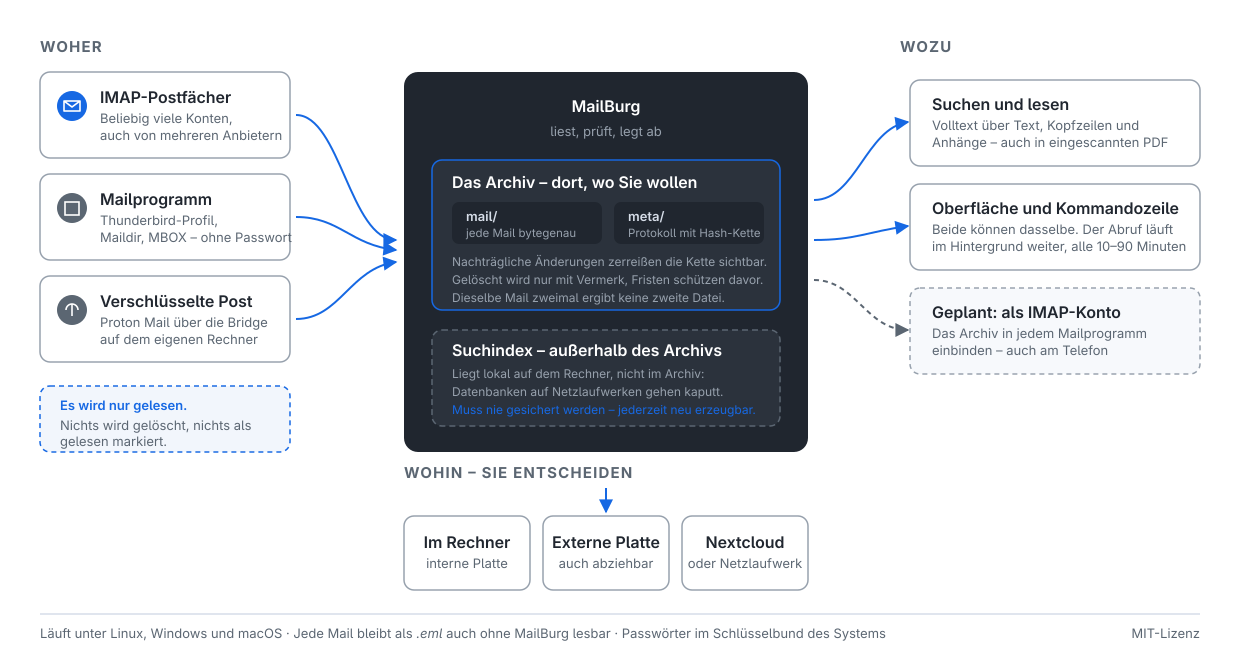
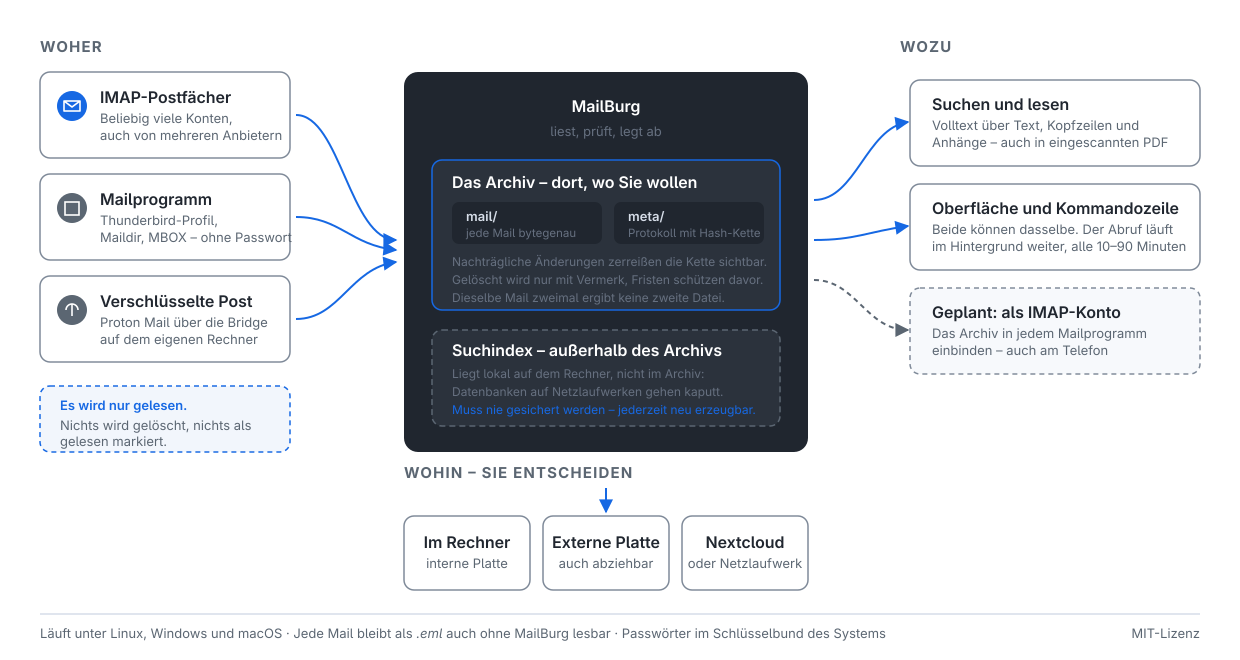
Die Beschriftungen der Übersichtsgrafik waren zu blass zum Lesen
Neun Textstellen in assets/uebersicht.svg standen bei 11,5 bis 13
Pixeln in #97a1ad auf weißem Grund. Das sind 2,6 Kontrast; WCAG
verlangt für Text dieser Größe 4,5. Die Kastenrahmen lagen mit
demselben Wert unter den 3,0 für grafische Elemente.

Text steht jetzt in #667080 (5,0), Rahmen in #7f8a99 (3,5).

Aufgefallen ist es nicht beim Hinsehen. Solche Werte sieht man einem
Farbton nicht an - sie kamen ans Licht, als diese Palette in ein
anderes Projekt übernommen und dort zum ersten Mal nachgerechnet
wurde. Ein Fehler, der ein Jahr lang in einer Erklärgrafik stand,
ohne dass ihn jemand bemerkte.

Damit das nicht wieder passiert, steht die Palette jetzt geschrieben:
assets/farben.md zum Nachlesen, mailburg/farben.py als Werte samt
Kontrastrechnung nach WCAG 2.1, tests/test_farben.py als Prüfung der
Paarungen, die tatsächlich vorkommen. Neu darin ist GRAU_LEISE
(#667080) für zurückgenommenen Text auf hellem Grund; GRAU_MITTE
(#97a1ad) taugt nur auf dunklem.

Diese Palette gilt seit dem 2026-08-28 für alle Programme. Die drei
Dateien sind zum Kopieren gedacht.

diff --git a/tests/test_farben.py b/tests/test_farben.py
@@ -1,0 +1,128 @@
+"""Die Farbpalette – Form der Werte, Kontraste, Vollständigkeit."""
+
+from __future__ import annotations
+
+import re
+import unittest
+
+from mailburg import farben
+
+
+def _palette() -> dict[str, str]:
+    """Alle Farbkonstanten des Moduls."""
+    return {
+        name: wert
+        for name, wert in vars(farben).items()
+        if name.isupper() and isinstance(wert, str) and wert.startswith("#")
+    }
+
+
+class Form(unittest.TestCase):
+    def test_alle_werte_sind_sechsstellige_hexwerte(self):
+        for name, wert in _palette().items():
+            with self.subTest(name=name):
+                self.assertRegex(wert, r"^#[0-9a-f]{6}$")
+
+    def test_keine_farbe_doppelt(self):
+        werte = list(_palette().values())
+        self.assertEqual(len(werte), len(set(werte)))
+
+    def test_palette_ist_nicht_leer(self):
+        self.assertGreaterEqual(len(_palette()), 15)
+
+    def test_rgb(self):
+        self.assertEqual(farben.rgb("#1668e3"), (22, 104, 227))
+        self.assertEqual(farben.rgb("#fff"), (255, 255, 255))
+
+    def test_rgb_lehnt_unsinn_ab(self):
+        for falsch in ("blau", "#12345", "#gggggg"):
+            with self.subTest(wert=falsch):
+                with self.assertRaises(ValueError):
+                    farben.rgb(falsch)
+
+
+class Kontraste(unittest.TestCase):
+    """WCAG 2.1 verlangt 4.5 für Fließtext und 3.0 für große Schrift.
+
+    Diese Zahlen sieht man einem Farbwert nicht an - man rechnet sie nach.
+    Genau deshalb steht die Prüfung hier und nicht in einer Anleitung: Der
+    Fehler bei GRAU_MITTE stand jahrelang unbemerkt in dieser Palette.
+    """
+
+    def test_weiss_auf_blau(self):
+        # Das Icon: weiße Zeichnung auf blauem Grund.
+        self.assertGreater(farben.kontrast(farben.WEISS, farben.BLAU), 4.5)
+        self.assertGreater(farben.kontrast(farben.WEISS, farben.BLAU_TIEF), 4.5)
+
+    def test_fliesstext_im_hellen_thema(self):
+        self.assertGreater(farben.kontrast(farben.GRAU, farben.GRAU_PAPIER), 4.5)
+        self.assertGreater(farben.kontrast(farben.GRAU_DUNKEL, farben.WEISS), 4.5)
+
+    def test_fliesstext_im_dunklen_thema(self):
+        self.assertGreater(farben.kontrast(farben.GRAU_HELL, farben.GRAU_NACHT), 4.5)
+        self.assertGreater(farben.kontrast(farben.GRAU_HELL, farben.GRAU_KOHLE), 4.5)
+
+    def test_verweise_sind_lesbar(self):
+        self.assertGreater(farben.kontrast(farben.BLAU, farben.GRAU_PAPIER), 4.5)
+        # Auf dunklem Grund braucht es das helle Blau; das dunkle wäre zu leise.
+        self.assertGreater(farben.kontrast(farben.BLAU_LEUCHT, farben.GRAU_NACHT), 4.5)
+
+    def test_signalfarben_sind_lesbar(self):
+        self.assertGreater(farben.kontrast(farben.ROT, farben.GRAU_PAPIER), 4.5)
+        self.assertGreater(farben.kontrast(farben.GRUEN, farben.GRAU_PAPIER), 4.5)
+        self.assertGreater(farben.kontrast(farben.ROT_HELL, farben.GRAU_NACHT), 4.5)
+        self.assertGreater(farben.kontrast(farben.GRUEN_HELL, farben.GRAU_NACHT), 4.5)
+
+    def test_zweitangaben_sind_lesbar(self):
+        # Zurückgenommener Text braucht je Thema einen eigenen Ton. GRAU_MITTE
+        # auf hellem Grund erreicht nur 2,48 und verfehlt damit sogar die 3,0
+        # für große Schrift - deshalb gibt es GRAU_LEISE. Der Fehler stand in
+        # der übernommenen Palette und ist erst hier aufgefallen.
+        self.assertGreater(farben.kontrast(farben.GRAU_LEISE, farben.GRAU_PAPIER), 4.5)
+        self.assertGreater(farben.kontrast(farben.GRAU_MITTE, farben.GRAU_NACHT), 4.5)
+
+    def test_grau_mitte_taugt_nicht_fuer_hellen_grund(self):
+        # Hält den Grund fest, warum es zwei Töne gibt. Wer GRAU_MITTE hier
+        # einsetzt, macht Text unlesbar, ohne dass es auffällt.
+        self.assertLess(farben.kontrast(farben.GRAU_MITTE, farben.GRAU_PAPIER), 3.0)
+
+    def test_kontrast_ist_symmetrisch(self):
+        a = farben.kontrast(farben.WEISS, farben.BLAU)
+        b = farben.kontrast(farben.BLAU, farben.WEISS)
+        self.assertAlmostEqual(a, b, places=10)
+
+    def test_gleiche_farbe_hat_kontrast_eins(self):
+        self.assertAlmostEqual(farben.kontrast(farben.BLAU, farben.BLAU), 1.0)
+
+    def test_schwarz_auf_weiss_ist_das_hoechste(self):
+        self.assertAlmostEqual(farben.kontrast("#000000", "#ffffff"), 21.0, places=1)
+
+
+class AlsCss(unittest.TestCase):
+    def test_beide_themen_liefern_dieselben_namen(self):
+        namen = [
+            set(re.findall(r"(--[a-z-]+):", farben.als_css(dunkel)))
+            for dunkel in (False, True)
+        ]
+        self.assertEqual(namen[0], namen[1])
+
+    def test_hell_und_dunkel_unterscheiden_sich(self):
+        self.assertNotEqual(farben.als_css(False), farben.als_css(True))
+
+    def test_waehler_stimmt(self):
+        self.assertTrue(farben.als_css(False).startswith(":root {"))
+        self.assertIn('data-thema="dunkel"', farben.als_css(True))
+
+    def test_werte_stammen_aus_der_palette(self):
+        # Eine zweite, von Hand geschriebene Liste derselben Werte wiche früher
+        # oder später ab - und man fände es erst, wenn ein Knopf eine andere
+        # Farbe hat als der Rest.
+        erlaubt = set(_palette().values())
+        for dunkel in (False, True):
+            for wert in re.findall(r": (#[0-9a-f]{6});", farben.als_css(dunkel)):
+                with self.subTest(dunkel=dunkel, wert=wert):
+                    self.assertIn(wert, erlaubt)
+
+
+if __name__ == "__main__":
+    unittest.main()

diff --git a/mailburg/farben.py b/mailburg/farben.py
@@ -1,0 +1,121 @@
+"""Die gemeinsame Farbpalette, an einer Stelle.
+
+Sie ist hier entstanden und gilt seit 2026-08-28 für alle Programme. Erklärt
+sind die Farben in [assets/farben.md](../assets/farben.md); hier stehen nur die
+Werte, damit Oberfläche, Bilder und Ausgaben nicht jeweils eigene Zahlen führen.
+
+Warum eine eigene Datei und keine Konstanten im Oberflächencode: Weil die
+Palette in mehr als einem Programm gilt. Diese Datei ist zum Kopieren gedacht -
+sie hat keine Abhängigkeiten und lässt sich unverändert in ein anderes Projekt
+legen.
+"""
+
+from __future__ import annotations
+
+# -- Blau, die Leitfarbe ---------------------------------------------------
+
+BLAU_HELL = "#0e8af6"    # oberes Ende des Verlaufs im Icon
+BLAU = "#1668e3"         # Flächen, Knöpfe, Hervorhebungen
+BLAU_TIEF = "#0047a7"    # unteres Ende des Verlaufs im Icon
+BLAU_DUNKEL = "#0d3a8a"  # Ränder und Schatten auf blauem Grund
+BLAU_NACHT = "#0d2141"   # Hintergründe im dunklen Thema
+BLAU_LEUCHT = "#6cb6ff"  # Verweise auf dunklem Grund; auf hellem zu blass
+
+# -- Grau, alles andere ----------------------------------------------------
+
+GRAU_PAPIER = "#f7f9fc"  # Seitenhintergrund, helles Thema
+GRAU_HELL = "#d6dde8"    # Linien, Trenner, Rahmen
+GRAU_MITTE = "#97a1ad"   # zurückgenommener Text auf *dunklem* Grund
+# Für zurückgenommenen Text auf hellem Grund. GRAU_MITTE taugt dort nicht:
+# Auf GRAU_PAPIER erreicht es nur 2,48 Kontrast und verfehlt damit sogar die
+# 3,0 für große Schrift. Aufgefallen ist das nicht beim Hinsehen, sondern
+# durch den Test in tests/test_farben.py - solche Werte sieht man nicht, man
+# rechnet sie. Auf hellem Grund kommt dieser Ton auf 4,75 und ist damit auch
+# für Fließtext zulässig.
+GRAU_LEISE = "#667080"
+GRAU = "#5b6672"         # Fließtext auf hellem Grund
+GRAU_DUNKEL = "#3a4048"  # Überschriften
+GRAU_KOHLE = "#2b323c"   # Flächen im dunklen Thema
+GRAU_NACHT = "#20262f"   # Seitenhintergrund, dunkles Thema
+WEISS = "#ffffff"
+
+# -- Signalfarben ----------------------------------------------------------
+#
+# Sparsam verwenden. Sie sagen »hier ist etwas passiert«, und das verlieren
+# sie, sobald sie zur Dekoration werden.
+
+ROT = "#c62828"         # Fehler, Gescheitertes
+ROT_HELL = "#ef9a9a"    # dasselbe auf dunklem Grund
+GRUEN = "#2e7d32"       # Erledigtes, Gesendetes
+GRUEN_HELL = "#81c784"  # dasselbe auf dunklem Grund
+
+#: Der Verlauf des Icons, von oben nach unten.
+ICON_VERLAUF = (BLAU_HELL, BLAU_TIEF)
+
+
+def als_css(dunkel: bool = False) -> str:
+    """Die Palette als CSS-Variablen für die Weboberfläche.
+
+    Erzeugt statt gepflegt: Eine zweite, von Hand geschriebene Liste derselben
+    Werte wiche früher oder später ab, und man fände es erst, wenn ein Knopf
+    eine andere Farbe hat als der Rest.
+    """
+    gemeinsam = {
+        "--blau": BLAU,
+        "--blau-hell": BLAU_HELL,
+        "--blau-tief": BLAU_TIEF,
+        "--rot": ROT_HELL if dunkel else ROT,
+        "--gruen": GRUEN_HELL if dunkel else GRUEN,
+    }
+    if dunkel:
+        gemeinsam.update({
+            "--grund": GRAU_NACHT,
+            "--flaeche": GRAU_KOHLE,
+            "--linie": GRAU_DUNKEL,
+            "--text": GRAU_HELL,
+            "--text-leise": GRAU_MITTE,
+            "--verweis": BLAU_LEUCHT,
+        })
+    else:
+        gemeinsam.update({
+            "--grund": GRAU_PAPIER,
+            "--flaeche": WEISS,
+            "--linie": GRAU_HELL,
+            "--text": GRAU_DUNKEL,
+            "--text-leise": GRAU_LEISE,
+            "--verweis": BLAU,
+        })
+    zeilen = "\n".join(f"  {name}: {wert};" for name, wert in gemeinsam.items())
+    waehler = ':root[data-thema="dunkel"]' if dunkel else ":root"
+    return f"{waehler} {{\n{zeilen}\n}}"
+
+
+def rgb(farbe: str) -> tuple[int, int, int]:
+    """»#1668e3« zu (22, 104, 227) – für Bildbearbeitung und Kontrastrechnung."""
+    roh = farbe.lstrip("#")
+    if len(roh) == 3:
+        roh = "".join(z * 2 for z in roh)
+    if len(roh) != 6:
+        raise ValueError(f"Keine Farbe im Format #rrggbb: {farbe!r}")
+    return int(roh[0:2], 16), int(roh[2:4], 16), int(roh[4:6], 16)
+
+
+def _helligkeit(farbe: str) -> float:
+    """Relative Helligkeit nach WCAG 2.1."""
+    def kanal(wert: int) -> float:
+        anteil = wert / 255
+        return anteil / 12.92 if anteil <= 0.03928 else ((anteil + 0.055) / 1.055) ** 2.4
+
+    r, g, b = (kanal(k) for k in rgb(farbe))
+    return 0.2126 * r + 0.7152 * g + 0.0722 * b
+
+
+def kontrast(vorne: str, hinten: str) -> float:
+    """Kontrastverhältnis zweier Farben, 1 bis 21.
+
+    WCAG verlangt 4.5 für Fließtext und 3.0 für große Schrift. Bei einem
+    Werkzeug, das neben DialOS entsteht, sollte das nicht nur eine Zahl in
+    einer Norm sein – die Prüfung steht deshalb in den Tests.
+    """
+    hell, dunkel = sorted((_helligkeit(vorne), _helligkeit(hinten)), reverse=True)
+    return (hell + 0.05) / (dunkel + 0.05)

diff --git a/assets/farben.md b/assets/farben.md
@@ -1,0 +1,63 @@
+# Farben
+
+Die gemeinsame Palette für alle Programme. Sie ist hier entstanden und gilt
+seit 2026-08-28 als Vorgabe – Abweichungen nur, wenn ausdrücklich etwas
+anderes gesagt wird.
+
+Diese Datei ist zum Weiterreichen gedacht: Sie liegt in jedem Repository gleich
+und ist die Antwort auf »welches Blau war das noch?«. Die maschinenlesbaren
+Werte stehen in [`mailburg/farben.py`](../mailburg/farben.py), damit
+Oberfläche und Bilder nicht jeweils eigene Zahlen führen.
+
+## Blau – die Leitfarbe
+
+| Name | Wert | Wofür |
+|---|---|---|
+| `BLAU_HELL` | `#0e8af6` | oberes Ende des Verlaufs im Icon |
+| `BLAU` | `#1668e3` | die Leitfarbe. Flächen, Knöpfe, Hervorhebungen |
+| `BLAU_TIEF` | `#0047a7` | unteres Ende des Verlaufs im Icon |
+| `BLAU_DUNKEL` | `#0d3a8a` | Ränder und Schatten auf blauem Grund |
+| `BLAU_NACHT` | `#0d2141` | Hintergründe im dunklen Thema |
+| `BLAU_LEUCHT` | `#6cb6ff` | Verweise auf dunklem Grund. Auf hellem zu blass |
+
+Der Verlauf im Icon geht von `BLAU_HELL` oben nach `BLAU_TIEF` unten, senkrecht
+über die volle Höhe.
+
+## Grau – alles andere
+
+| Name | Wert | Wofür |
+|---|---|---|
+| `GRAU_PAPIER` | `#f7f9fc` | Seitenhintergrund im hellen Thema |
+| `GRAU_HELL` | `#d6dde8` | Linien, Trenner, Rahmen |
+| `GRAU_MITTE` | `#97a1ad` | zurückgenommener Text auf **dunklem** Grund |
+| `GRAU_LEISE` | `#667080` | dasselbe auf **hellem** Grund |
+| `GRAU` | `#5b6672` | Fließtext auf hellem Grund |
+| `GRAU_DUNKEL` | `#3a4048` | Überschriften |
+| `GRAU_KOHLE` | `#2b323c` | Flächen im dunklen Thema |
+| `GRAU_NACHT` | `#20262f` | Seitenhintergrund im dunklen Thema |
+| `WEISS` | `#ffffff` | Zeichnungen auf Blau, Flächen im hellen Thema |
+
+Zwei Töne für dieselbe Aufgabe, weil einer nicht reicht: `GRAU_MITTE` kommt auf
+hellem Grund nur auf 2,48 Kontrast und verfehlt damit sogar die 3,0, die WCAG
+für große Schrift verlangt. Das sieht man einem Farbwert nicht an – es fiel
+erst auf, als `tests/test_farben.py` es nachgerechnet hat.
+
+## Signalfarben
+
+Sparsam. Sie sagen »hier ist etwas passiert«, und das verliert seine Wirkung,
+wenn sie zur Dekoration werden.
+
+| Name | Wert | Wofür |
+|---|---|---|
+| `ROT` | `#c62828` | Fehler, Gescheitertes |
+| `ROT_HELL` | `#ef9a9a` | dasselbe auf dunklem Grund |
+| `GRUEN` | `#2e7d32` | Erledigtes, Gesendetes |
+| `GRUEN_HELL` | `#81c784` | dasselbe auf dunklem Grund |
+
+## Eine Anmerkung zur Herkunft
+
+Diese Palette ist aus MailBurgs Icon und Banner gewachsen und wurde am
+2026-08-28 zur Vorgabe für alle Programme erklärt. Dabei fiel auf, dass
+`#97a1ad` – hier lange als Textfarbe verwendet – auf hellem Grund nur 2,6
+Kontrast erreicht. Die betroffenen Stellen in `assets/uebersicht.svg` wurden
+korrigiert; siehe das Änderungsprotokoll.

diff --git a/CHANGELOG.md b/CHANGELOG.md
@@ -11,6 +11,29 @@ die Versionsnummern folgen [Semantic Versioning](https://semver.org/lang/de/).
 
 ### Behoben
 
+- **Die Beschriftungen in der Übersichtsgrafik waren zu blass zum Lesen.**
+  `assets/uebersicht.svg` setzte neun Textstellen bei 11,5 bis 13 Pixeln in
+  `#97a1ad` auf weißen Grund – das sind 2,6 Kontrast, verlangt sind 4,5. Die
+  Kastenrahmen lagen mit demselben Wert unter den 3,0, die WCAG für grafische
+  Elemente fordert. Text steht jetzt in `#667080` (5,0), Rahmen in `#7f8a99`
+  (3,5).
+
+  Aufgefallen ist das nicht beim Hinsehen. Solche Werte sieht man einem
+  Farbton nicht an – sie kamen ans Licht, als die Palette in ein anderes
+  Projekt übernommen und dort erstmals nachgerechnet wurde.
+
+### Hinzugefügt
+
+- **Die Farbpalette steht jetzt geschrieben** – in `assets/farben.md` zum
+  Nachlesen und in `mailburg/farben.py` als Werte, samt Kontrastrechnung nach
+  WCAG 2.1. `tests/test_farben.py` prüft die Paarungen, die tatsächlich
+  vorkommen. Beide Dateien sind zum Kopieren in andere Projekte gedacht; diese
+  Palette gilt seit dem 2026-08-28 für alle.
+- **`GRAU_LEISE` (`#667080`)** für zurückgenommenen Text auf hellem Grund.
+  `GRAU_MITTE` (`#97a1ad`) taugt nur auf dunklem – siehe oben.
+
+### Behoben
+
 - **Scans mit riesigen Seitenmaßen blieben stumm.** Eine Seite aus der
   iPhone-Kamera-App misst 4507 × 6681 Punkte statt 595 × 842 – bei 300
   dpi wären das 523 Megapixel, woran tesseract erstickt, ohne einen
